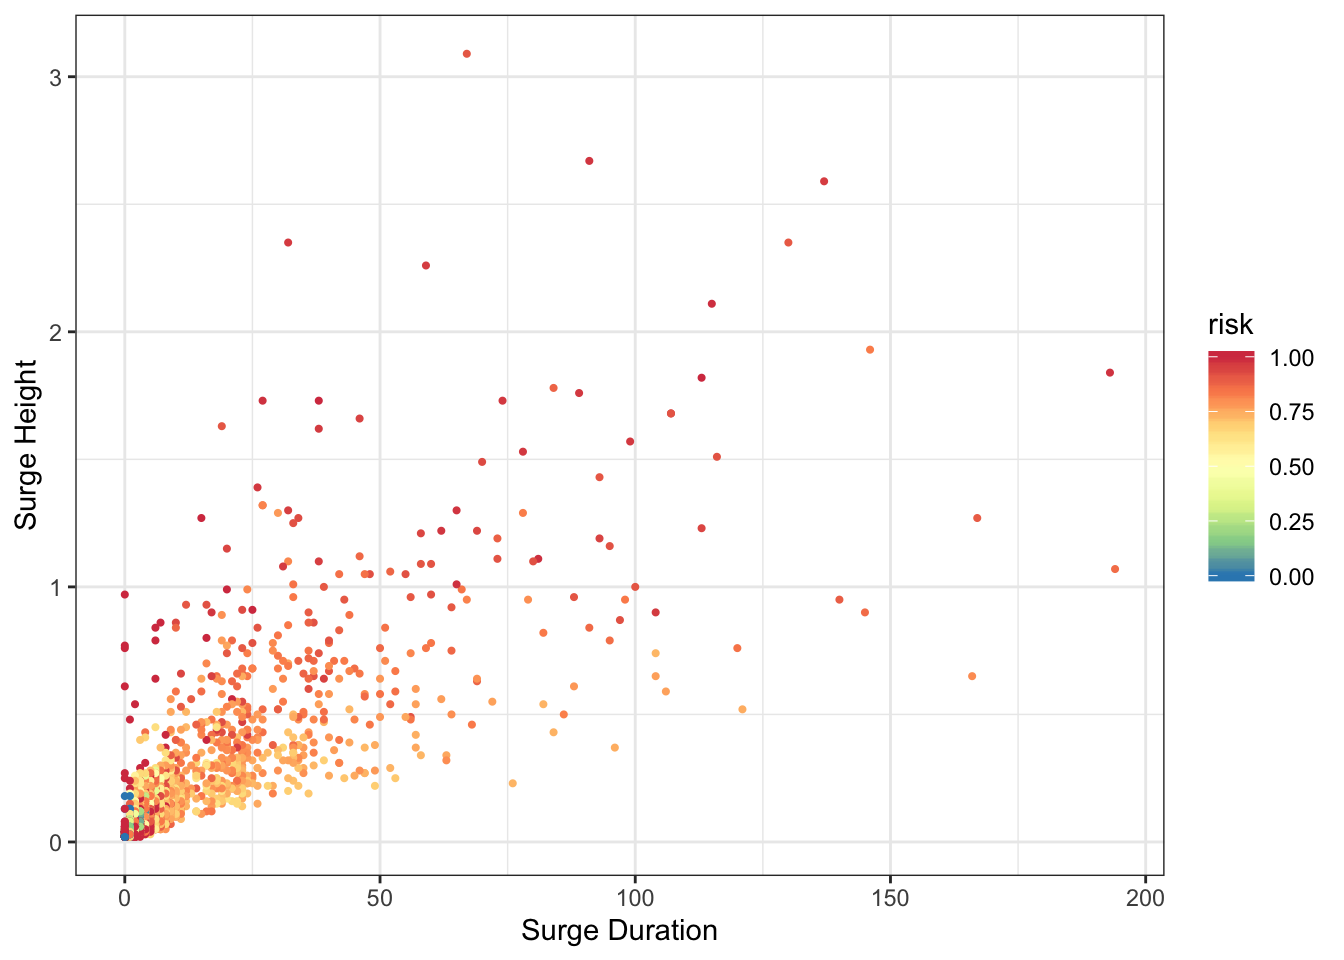
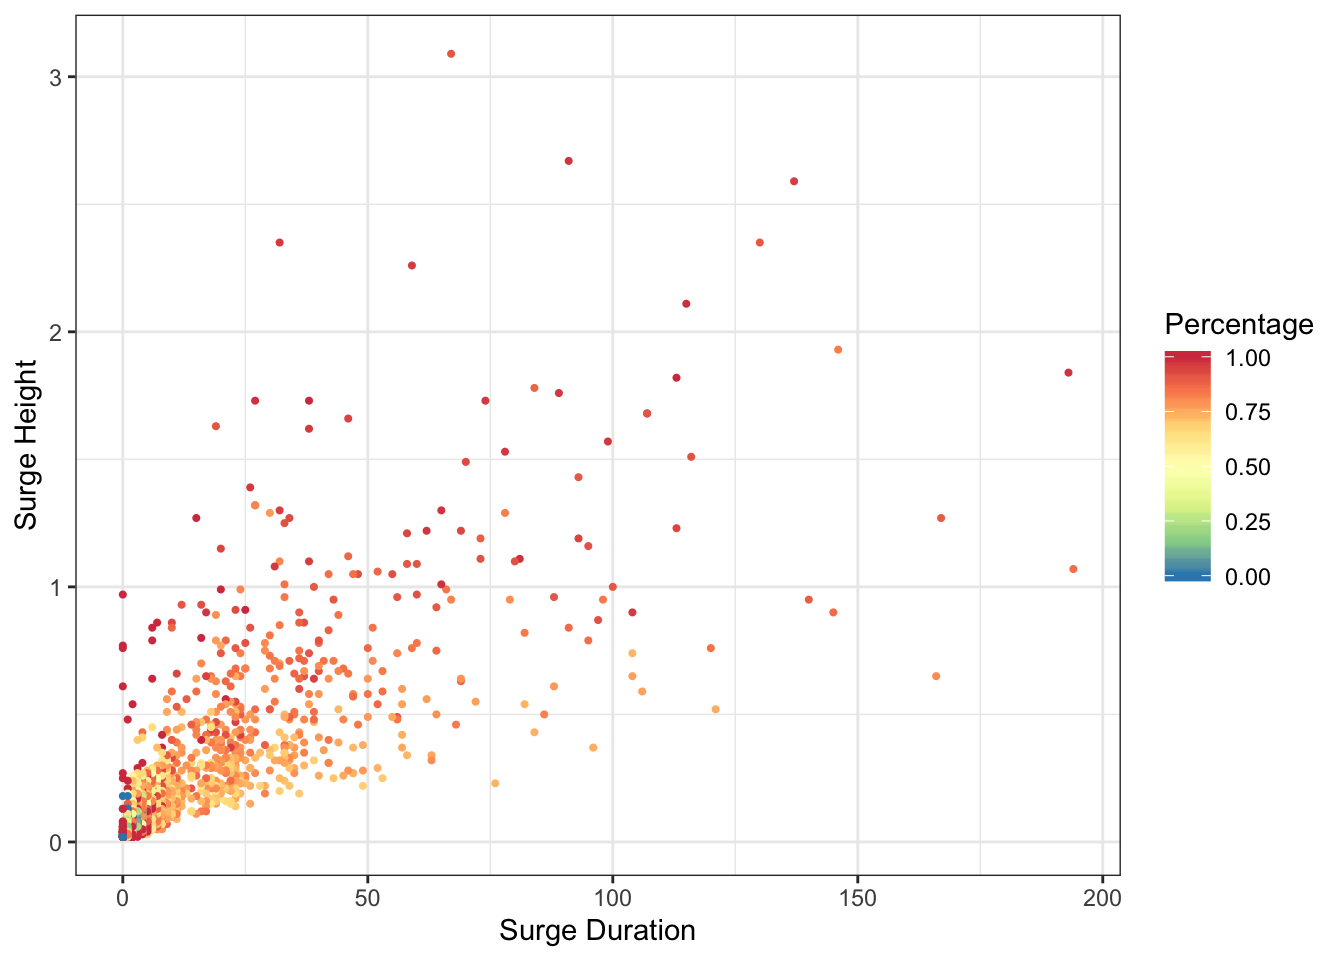
Build site.

diff --git a/docs/surge_climatology.html b/docs/surge_climatology.html
@@ -493,10 +493,10 @@ This reproducible <a href="http://rmarkdown.rstudio.com">R Markdown</a> analysis
 <div class="panel panel-default">
 <div class="panel-heading">
 <p class="panel-title">
-<a data-toggle="collapse" data-parent="#workflowr-checks" href="#strongRepositoryversionstrongahrefhttpsgithubcomkaterobsauNWOProjecttreedfbe9ada8757ced1e7059f75064e95e2d7c0be2atargetblankdfbe9ada"> <span class="glyphicon glyphicon-ok text-success" aria-hidden="true"></span> <strong>Repository version:</strong> <a href="https://github.com/katerobsau/NWO_Project/tree/dfbe9ada8757ced1e7059f75064e95e2d7c0be2a" target="_blank">dfbe9ad</a> </a>
+<a data-toggle="collapse" data-parent="#workflowr-checks" href="#strongRepositoryversionstrongahrefhttpsgithubcomkaterobsauNWOProjecttree04d1e59b51e97d5f659cb17c34d235d894eceedatargetblank04d1e59a"> <span class="glyphicon glyphicon-ok text-success" aria-hidden="true"></span> <strong>Repository version:</strong> <a href="https://github.com/katerobsau/NWO_Project/tree/04d1e59b51e97d5f659cb17c34d235d894eceeda" target="_blank">04d1e59</a> </a>
 </p>
 </div>
[2 lines of base64/hex data omitted]
 <div class="panel-body">
 <p>
 Great! You are using Git for version control. Tracking code development and connecting the code version to the results is critical for reproducibility. The version displayed above was the version of the Git repository at the time these results were generated. <br><br> Note that you need to be careful to ensure that all relevant files for the analysis have been committed to Git prior to generating the results (you can use <code>wflow_publish</code> or <code>wflow_git_commit</code>). workflowr only checks the R Markdown file, but you know if there are other scripts or data files that it depends on. Below is the status of the Git repository when the results were generated:
@@ -555,6 +555,40 @@ Message
 </tr>
 </thead>
 <tbody>
+<tr>
+<td>
+Rmd
+</td>
+<td>
+<a href="https://github.com/katerobsau/NWO_Project/blob/04d1e59b51e97d5f659cb17c34d235d894eceeda/analysis/surge_climatology.Rmd" target="_blank">04d1e59</a>
+</td>
+<td>
+katerobsau
+</td>
+<td>
+2019-09-25
+</td>
+<td>
+Fixed legend on plot
+</td>
+</tr>
+<tr>
+<td>
+html
+</td>
+<td>
+<a href="https://rawcdn.githack.com/katerobsau/NWO_Project/485e57a822777723078c623c318ba40eb5d0c8f5/docs/surge_climatology.html" target="_blank">485e57a</a>
+</td>
+<td>
+katerobsau
+</td>
+<td>
+2019-09-25
+</td>
+<td>
+Build site.
+</td>
+</tr>
 <tr>
 <td>
 Rmd
@@ -1263,7 +1297,7 @@ katerobsau
 </div>
 <div id="surge-duration" class="section level2">
 <h2>Surge duration</h2>
-<p>To analyse a random variable that is a bit friendlier in terms of dependence and standard copulas, it is useful to think about how the duration of the surge event is related to the surge height. Exceedance of the threshold is shown here in blue..</p>
+<p>To analyse a random variable that is a bit friendlier in terms of dependence and standard copulas, it is useful to think about how the duration of the surge event is related to the surge height. The points are shaded by the percentage of time spent about the flood risk threshold during each storm surge event.</p>
 <p><img src="figure/surge_climatology.Rmd/clustersSur-1.png" width="672" style="display: block; margin: auto;" /></p>
 <p>
 <button type="button" class="btn btn-default btn-xs btn-workflowr btn-workflowr-fig" data-toggle="collapse" data-target="#fig-clustersSur-1">
